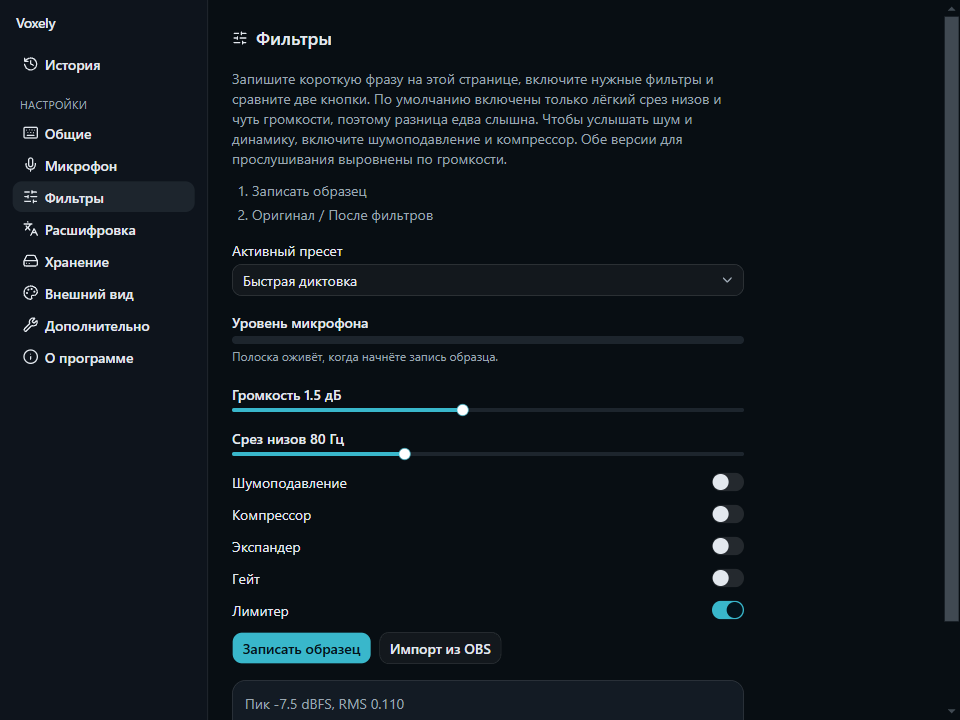
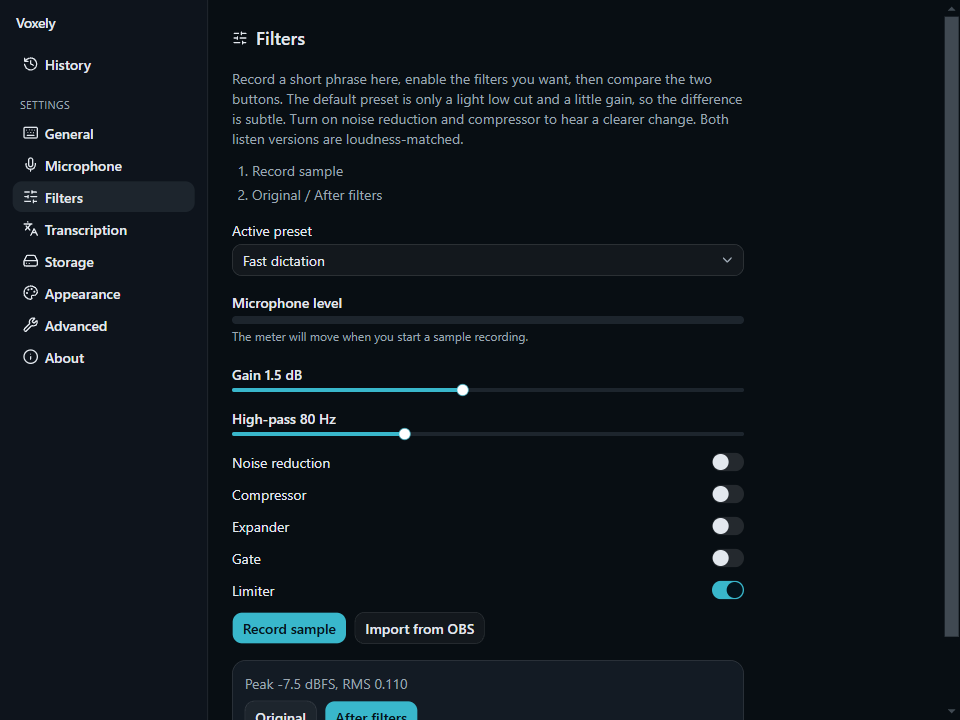
docs: swap README shots to English HUD at real size
The previous overlay image stretched the pill across the frame. Point the hero at a 440px English capture instead.

diff --git a/scripts/readme-shots/tauri-core.ts b/scripts/readme-shots/tauri-core.ts
@@ -2,7 +2,7 @@ import type { AppSettings, DspPreset, MeterSample, Recording, SessionState } fro
 
 const preset: DspPreset = {
   id: "stt-fast",
-  name: "Быстрая диктовка",
+  name: "Fast dictation",
   order: [
     { id: "highpass", kind: "highPass", enabled: true },
     { id: "gain", kind: "gain", enabled: true },
@@ -44,7 +44,7 @@ const settings: AppSettings = {
   inputDevice: "default",
   keepOriginalRecordings: true,
   theme: "dark",
-  language: "ru",
+  language: "en",
   model: "openai/gpt-transcribe",
   customModel: null,
   insertionMode: "unicode",
@@ -63,7 +63,7 @@ const settings: AppSettings = {
   activePresetId: "stt-fast",
   presets: [preset],
   firstRunComplete: true,
-  uiLanguage: "ru",
+  uiLanguage: "en",
   autoUpdateEnabled: true,
 };
 
@@ -74,7 +74,7 @@ const history: Recording[] = [
     durationMs: 8200,
     rawAudioPath: "a.wav",
     processedAudioPath: "b.wav",
-    transcript: "Открой вчерашний отчёт и пришли ссылку в чат.",
+    transcript: "Open yesterday's report and send the link in chat.",
     status: "completed",
     provider: "openrouter",
     model: "openai/gpt-transcribe",
@@ -91,7 +91,7 @@ const history: Recording[] = [
     durationMs: 5400,
     rawAudioPath: "c.wav",
     processedAudioPath: "d.wav",
-    transcript: "Напомни про созвон в пятницу в 11:00.",
+    transcript: "Remind me about the Friday call at 11:00.",
     status: "completed",
     provider: "openrouter",
     model: "openai/gpt-transcribe",
@@ -118,7 +118,10 @@ function sessionFromSearch(): SessionState {
 const meter: MeterSample = {
   rms: 0.14,
   peak: 0.38,
-  levels: Array.from({ length: 28 }, (_, index) => 0.18 + ((index % 7) / 18) * 0.45),
+  levels: [
+    0.05, 0.07, 0.1, 0.16, 0.28, 0.44, 0.36, 0.22, 0.3, 0.52, 0.4, 0.24, 0.14, 0.2, 0.34, 0.48,
+    0.38, 0.22, 0.12, 0.18, 0.26, 0.2, 0.12, 0.08, 0.06, 0.05, 0.04, 0.04,
+  ],
 };
 
 export async function invoke<T>(cmd: string): Promise<T> {
@@ -135,7 +138,7 @@ export async function invoke<T>(cmd: string): Promise<T> {
       return true as T;
     case "list_microphones":
       return [
-        { id: "mic-internal", name: "Микрофон ноутбука", isDefault: true },
+        { id: "mic-internal", name: "Laptop microphone", isDefault: true },
         { id: "mic-1", name: "Studio Mic", isDefault: false },
       ] as T;
     case "get_meter":

diff --git a/scripts/readme-shots/vite.config.ts b/scripts/readme-shots/vite.config.ts
@@ -17,9 +17,18 @@ export default defineConfig({
       html.shot-overlay,
       html.shot-overlay body,
       html.shot-overlay #root {
+        display: flex;
+        align-items: center;
+        justify-content: center;
         background:
-          radial-gradient(1200px 480px at 50% 20%, rgb(36 52 78), transparent 62%),
+          radial-gradient(720px 280px at 50% 35%, rgb(36 52 78), transparent 64%),
           linear-gradient(180deg, rgb(18 22 30), rgb(10 12 16)) !important;
+      }
+      html.shot-overlay .overlay-shell {
+        width: 440px;
+        height: 108px;
+        padding: 22px 20px 28px;
+        flex: none;
       }
     </style>
     <script>

diff --git a/README.md b/README.md
@@ -5,7 +5,7 @@
 <h1 align="center">Voxely</h1>
 
 <p align="center">
-  Диктовка для Windows. Нажал хоткей, сказал фразу, текст оказался в том окне, где ты работал.
+  Windows dictation. Press the hotkey, speak, and the transcript lands in the window you started in.
 </p>
 
 <p align="center">
@@ -17,100 +17,98 @@
 </p>
 
 <p align="center">
-  <a href="#как-пользоваться">Как пользоваться</a>
+  <a href="#how-to-use">How to use</a>
   &nbsp;|&nbsp;
-  <a href="#установка">Установка</a>
+  <a href="#install">Install</a>
   &nbsp;|&nbsp;
-  <a href="#приватность">Приватность</a>
+  <a href="#privacy">Privacy</a>
   &nbsp;|&nbsp;
-  <a href="#для-разработчиков">Разработка</a>
+  <a href="#for-developers">Developers</a>
 </p>
 
 <p align="center">
-  <img src="docs/images/overlay.png" alt="Оверлей записи Voxely" width="720" />
+  <img src="docs/images/hud.png" alt="Voxely recording HUD" width="440" />
 </p>
 
-## Зачем это
+## Why Voxely
 
-Voxely живёт в трее. Ты пишешь в Cursor, Telegram или Word, жмёшь глобальный хоткей и говоришь. Программа записывает звук, чистит его фильтрами, отправляет в OpenRouter и вставляет расшифровку туда, где ты начал диктовку.
+Voxely lives in the tray. You keep typing in Cursor, Telegram, or Word, press a global hotkey, and speak. It records, runs speech filters, sends audio to OpenRouter, and inserts the transcript into the window where you started.
 
-Не надо переключаться в отдельное окно и не надо вручную копировать каждое предложение.
+No extra dictation window. No copying every sentence by hand.
 
-## Как это выглядит
+## Screenshots
 
 <p align="center">
-  <img src="docs/images/history.png" alt="История диктовок" width="800" />
+  <img src="docs/images/history.png" alt="Dictation history" width="800" />
 </p>
 
 <p align="center">
-  <img src="docs/images/general.png" alt="Глобальный хоткей и трей" width="48%" />
+  <img src="docs/images/general.png" alt="Global hotkey and tray" width="48%" />
   &nbsp;
-  <img src="docs/images/filters.png" alt="Фильтры микрофона" width="48%" />
+  <img src="docs/images/filters.png" alt="Microphone filters" width="48%" />
 </p>
 
 <p align="center">
-  <img src="docs/images/transcription.png" alt="Ключ OpenRouter и модель" width="48%" />
+  <img src="docs/images/transcription.png" alt="OpenRouter key and model" width="48%" />
   &nbsp;
-  <img src="docs/images/about.png" alt="О программе" width="48%" />
+  <img src="docs/images/about.png" alt="About Voxely" width="48%" />
 </p>
 
-## Как пользоваться
+## How to use
 
-1. Положи [API-ключ OpenRouter](https://openrouter.ai/) в **Расшифровка**. Ключ уходит в Windows Credential Manager, не в файл настроек.
-2. Кликни в поле, куда нужен текст.
-3. Нажми **Ctrl+Shift+Space** (хоткей можно сменить в **Общие**).
-4. Говори. Снизу экрана HUD показывает запись и уровень голоса.
-5. Нажми хоткей ещё раз, чтобы остановить. Расшифровка вставится в то окно, где ты начал.
-6. Наведи на HUD, если нужно **отменить** запись. Escape тоже отменяет.
+1. Put your [OpenRouter API key](https://openrouter.ai/) in **Transcription**. It is stored in Windows Credential Manager, not in the settings file.
+2. Click the field where the text should go.
+3. Press **Ctrl+Shift+Space** (change this in **General**).
+4. Speak. The HUD at the bottom of the screen shows recording and level.
+5. Press the hotkey again to stop. The transcript is inserted into the window you started in.
+6. Hover the HUD to **cancel**. Escape also cancels.
 
-История хранит расшифровки локально: можно копировать, слушать и искать по тексту.
+History keeps transcripts locally so you can copy, listen, and search.
 
-## Возможности
+## Features
 
-- Глобальный хоткей и работа из трея, без постоянного окна на переднем плане
-- Вставка в исходное окно через Unicode, либо только копирование в буфер, если так удобнее
-- HUD записи: волна, таймер, отмена наведением
-- Фильтры для речи: срез низов, усиление, шумоподавление, компрессор, лимитер
-- Сравнение оригинала и обработанного звука на одной громкости
-- Импорт цепочки фильтров из OBS
-- История, поиск, хранение на диске с лимитом места и сроком жизни
-- Русский и английский интерфейс, светлая, тёмная и системная тема
-- Автообновления с подписью Tauri, когда опубликован релиз
+- Global hotkey and tray-first workflow
+- Unicode insert into the captured window, or clipboard-only if you prefer to paste
+- Recording HUD: waveform, timer, hover to cancel
+- Speech filters: high-pass, gain, noise reduction, compressor, limiter
+- A/B listen of original vs processed audio at matched loudness
+- Import a filter chain from OBS
+- Local history, search, retention, and storage limits
+- English and Russian UI, light, dark, and system theme
+- Signed Tauri updates once a release is published
 
-## Установка
+## Install
 
-Нужен **Windows 11 x64**. При первом запуске установщик при необходимости подтянет WebView2.
+You need **Windows 11 x64**. The installer can fetch WebView2 on first run if it is missing.
 
-1. Скачай установщик с [Releases](https://github.com/AryaPaw/voxely/releases).
-2. Установи для текущего пользователя.
-3. Открой Voxely из меню «Пуск» или из трея.
-4. Добавь ключ OpenRouter и проверь соединение.
+1. Download the installer from [Releases](https://github.com/AryaPaw/voxely/releases).
+2. Install for the current user.
+3. Open Voxely from the Start menu or the tray.
+4. Add an OpenRouter key and test the connection.
 
-Модель по умолчанию: `openai/gpt-transcribe`. Список моделей подтягивается из OpenRouter.
+Default model: `openai/gpt-transcribe`. The model list comes from OpenRouter.
 
-Если Windows SmartScreen ругается на первый скачанный файл, это ожидаемо, пока нет Authenticode. Подпись обновлений Tauri при этом своя, отдельная.
+SmartScreen may warn on the first download until Authenticode signing is in place. Tauri updater signatures are separate.
 
-## Вставка текста
+## Text insertion
 
-В **Дополнительно** два режима вставки:
+**Advanced** has two insert modes:
 
-- **В окно (Unicode)** — программа печатает расшифровку в окно, которое было активно в начале записи. Это основной режим.
-- **Только буфер обмена** — текст копируется, вставка остаётся за тобой. Ctrl+V программа сама не шлёт.
+- **Into window (Unicode)** — types the transcript into the window that was focused when you started. This is the default.
+- **Clipboard only** — copies the text and does not paste. The app never sends Ctrl+V.
 
-Некоторые приложения (часть Chromium и редакторов) принимают Unicode хуже других. Если символы не появились, запись всё равно лежит в истории: скопируй оттуда или переключись на буфер.
+Some Chromium-based apps accept Unicode poorly. If nothing appears, the recording is still in History: copy it there, or switch to clipboard mode.
 
-## Приватность
+## Privacy
 
-- API-ключ лежит в Windows Credential Manager, не в git и не в SQLite
-- Аудио и история живут в `%APPDATA%\Voxely`
-- Расшифровка идёт через OpenRouter: звук уходит к выбранной модели, ключ не светится в логах
-- Оверлей не перехватывает фокус и не подменяет чужое окно при вставке
+- The API key stays in Windows Credential Manager, not git or SQLite
+- Audio and history live in `%APPDATA%\Voxely`
+- Transcription goes through OpenRouter; logs omit the key
+- The overlay does not steal focus and will not type into a different app
 
-Подробности для аудита: [`docs/SECURITY.md`](docs/SECURITY.md).
+Audit notes: [`docs/SECURITY.md`](docs/SECURITY.md).
 
-## Для разработчиков
-
-Сборка и проверки:
+## For developers
 
 ```text
 bun install
@@ -118,20 +116,18 @@ bun run tauri dev
 bun run verify
 ```
 
-Нужны Bun 1.4+, Rust stable и Visual Studio 2022 Build Tools с C++.
-
-Удобный запуск:
+Needs Bun 1.4+, Rust stable, and Visual Studio 2022 Build Tools with C++.
 
 ```powershell
 .\scripts\dev.ps1
 ```
 
-Архитектура, релиз и пайплайн звука: [`docs/ARCHITECTURE.md`](docs/ARCHITECTURE.md), [`docs/RELEASE.md`](docs/RELEASE.md), [`docs/OPENROUTER.md`](docs/OPENROUTER.md).
+See [`docs/ARCHITECTURE.md`](docs/ARCHITECTURE.md), [`docs/RELEASE.md`](docs/RELEASE.md), and [`docs/OPENROUTER.md`](docs/OPENROUTER.md).
 
-Скриншоты README снимаются с реального UI через мок Tauri:
+Refresh README screenshots from the real UI with a Tauri mock:
 
 ```text
-bunx vite --config scripts/readme-shots/vite.config.ts
+bun run docs:shots
 ```
 
-Лицензия: [AGPL-3.0](LICENSE).
+License: [AGPL-3.0](LICENSE).
